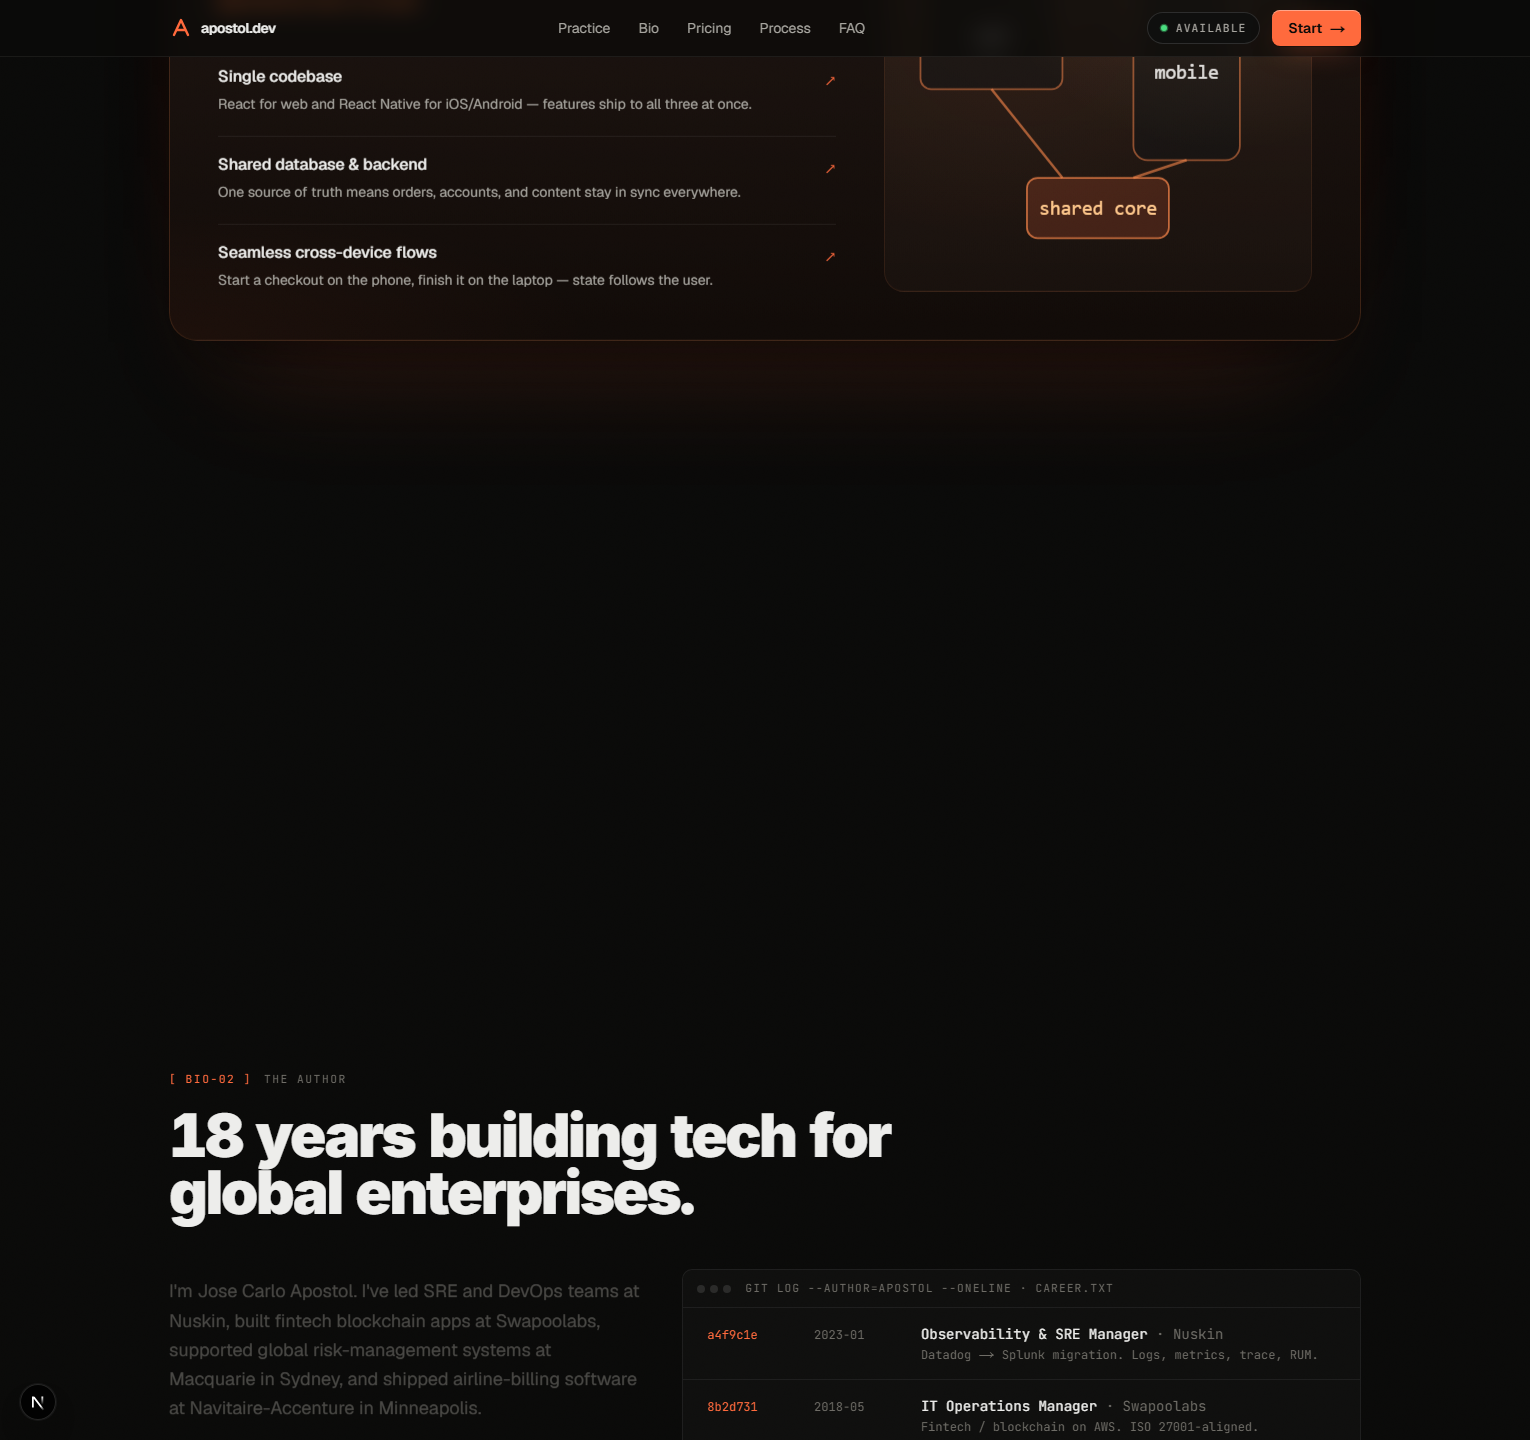
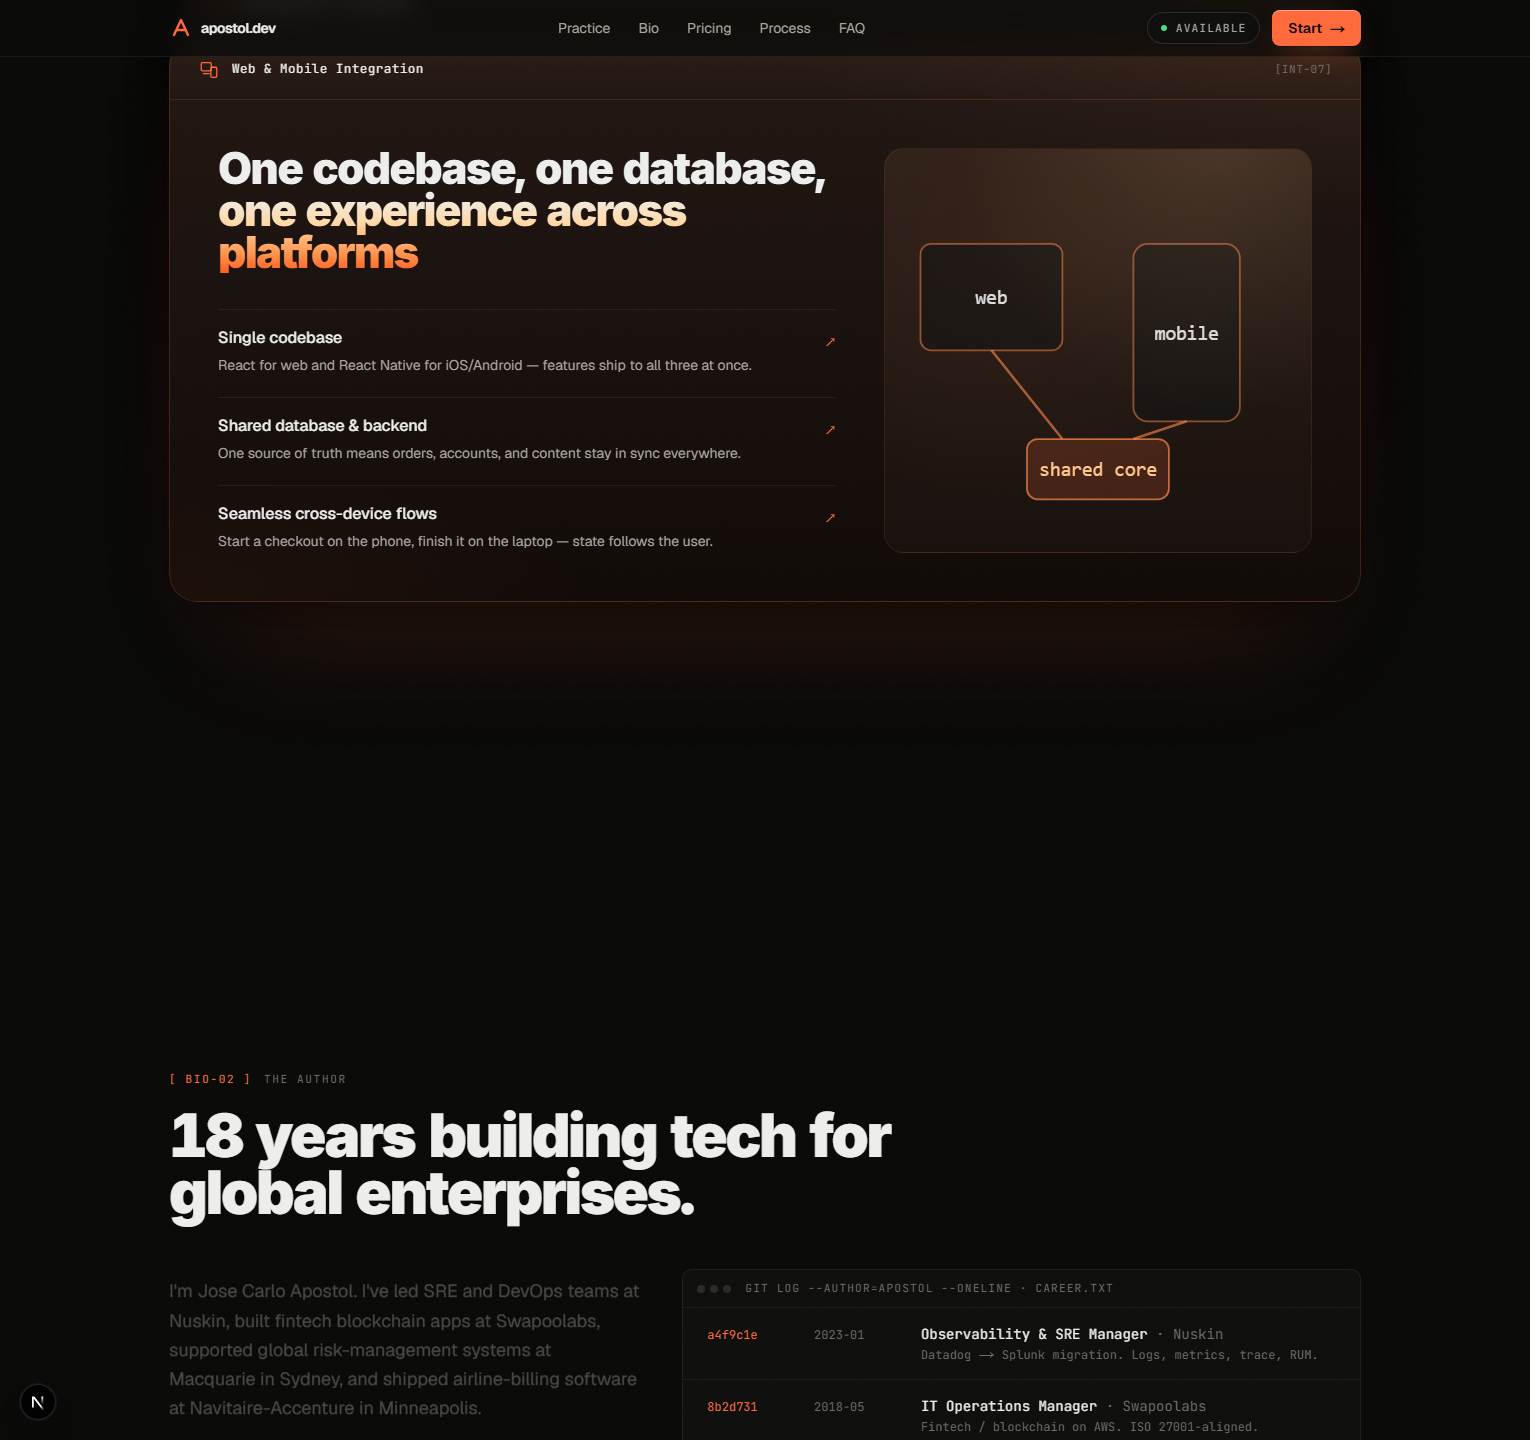
Make stack outro 1:1 with scroll so everything moves at same pace
Previously cards lifted ~1100px over 500px of scroll past dock — a
2.2x overshoot that felt much faster than the rest of the page
(which scrolls at 1:1). BIO and any content after the stack moved
slower than the cards leaving.

Now outroY = -clamp(distPastDock, 0, 1100). One pixel of card lift
per pixel of scroll past dock, capped only so transform values stay
sane after cards exit. BIO scrolls naturally and now keeps pace
with the cards — they move up together.

Removed OUTRO_LINGER_PX / OUTRO_SCROLL_PX / OUTRO_TRANSLATE — the
old ramped-overshoot model is gone.

diff --git a/src/app/solution-depth.tsx b/src/app/solution-depth.tsx
@@ -9,9 +9,7 @@ export function SolutionDepthEffect() {
     const stickyTop = (i: number) => 80 + i * 60;
 
     const TRANSITION_PX = 280;
-    const OUTRO_LINGER_PX = 100;   // brief pause to confirm dock before lift
-    const OUTRO_SCROLL_PX = 500;   // distance over which the lift completes
-    const OUTRO_TRANSLATE = 1100;  // overshoot so cards fully clear viewport
+    const OUTRO_MAX_LIFT = 1100;   // cap on translate so transform values stay sane after cards exit
 
     // Cache each card's natural page-Y at mount. Recomputed lazily if needed.
     const pageOffsetTop = (el: HTMLElement | null) => {
@@ -32,13 +30,11 @@ export function SolutionDepthEffect() {
     const update = () => {
       const sy = window.scrollY;
 
-      // Outro starts after the last card docks (with brief linger).
+      // After dock, cards lift 1:1 with scroll — same pace as the rest of
+      // the page so everything moves up together. z-index on .solution-stack
+      // keeps cards above BIO-02 during the brief on-screen overlap.
       const distPastDock = sy - dockedScroll;
-      const outro = Math.max(
-        0,
-        Math.min(1, (distPastDock - OUTRO_LINGER_PX) / OUTRO_SCROLL_PX),
-      );
-      const outroY = -outro * OUTRO_TRANSLATE;
+      const outroY = -Math.max(0, Math.min(OUTRO_MAX_LIFT, distPastDock));
 
       cards.forEach((card, i) => {
         // Depth from following cards' progress past their sticky_tops.

diff --git a/src/app/page.tsx b/src/app/page.tsx
@@ -399,10 +399,12 @@ export default function HomePage() {
       </section>
 
       {/* BIO — git log style */}
-      {/* BIO sits exactly one viewport below the dock line on any screen
-          height. 1003px = INT-07's sticky_top (440) + card height (563),
-          fixed in px since cards don't scale with viewport. 15vh adjusts
-          for the in-flow card margins that DO scale with vh. */}
+      {/* BIO sits exactly one viewport below the dock line on any height.
+          calc(-1003px - 15vh): the 1003px piece = sticky_top (440) + card
+          height (563), both in px; the 15vh piece adjusts for the in-flow
+          card margins. BIO never peeks above viewport during dock. As
+          cards lift 1:1 with scroll, BIO enters from below at the same
+          pace — everything on the page moves up together. */}
       <section id="bio" className="relative" style={{ marginTop: "calc(-1003px - 15vh)" }}>
         <div className="max-w-[1240px] mx-auto px-6 pt-8 pb-24">
           <SectionHeader id="BIO-02" eyebrow="The author" title={<>18 years building tech for global enterprises.</>} />
